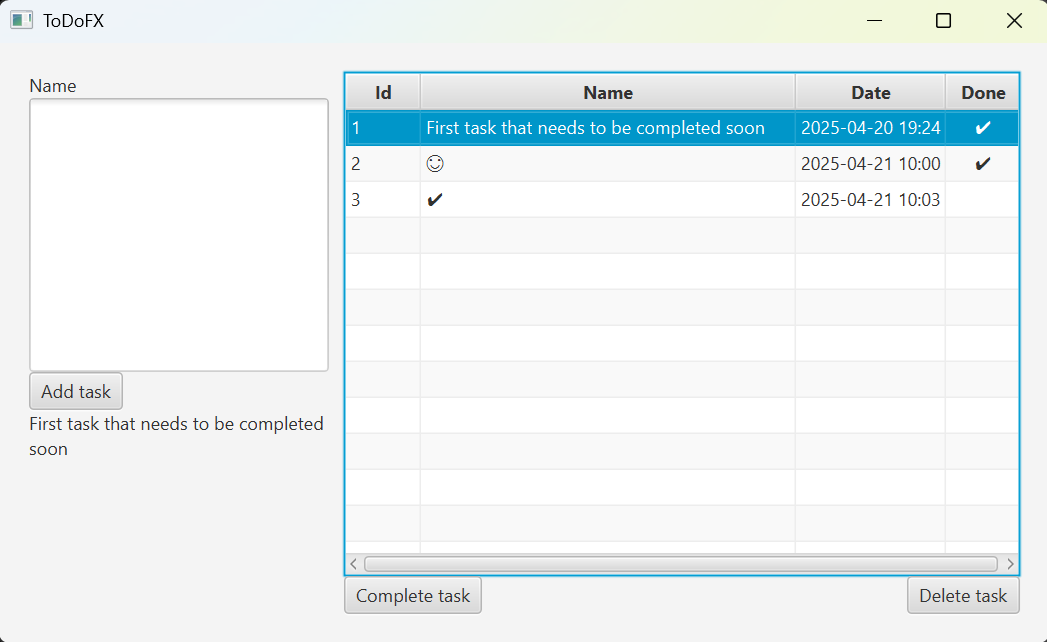
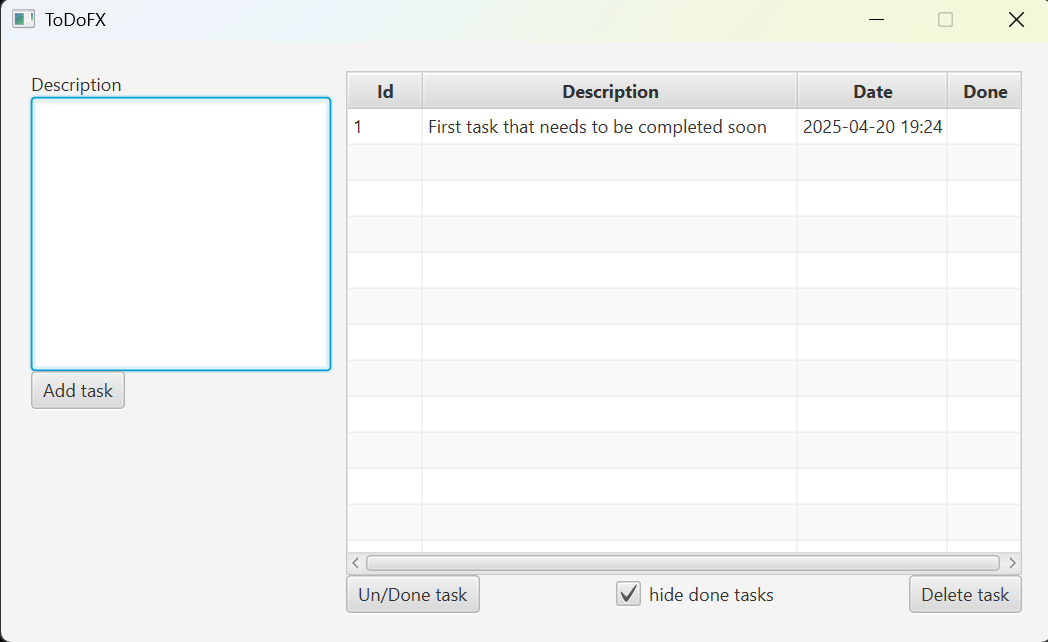
#7 completed task are now hidden per default; it's now also possible to toggle done/undone

diff --git a/src/main/kotlin/com/github/ursteiner/todofx/controller/ToDoFxController.kt b/src/main/kotlin/com/github/ursteiner/todofx/controller/ToDoFxController.kt
@@ -4,9 +4,11 @@ import com.github.ursteiner.todofx.model.Task
 import com.github.ursteiner.todofx.service.DatabaseService
 import com.github.ursteiner.todofx.service.DatabaseServiceImpl
 import com.github.ursteiner.todofx.view.FxMessageDialog
+import javafx.collections.FXCollections
 import javafx.collections.ObservableList
 import javafx.fxml.FXML
 import javafx.fxml.Initializable
+import javafx.scene.control.CheckBox
 import javafx.scene.control.Label
 import javafx.scene.control.TableView
 import javafx.scene.control.TextArea
@@ -26,64 +28,92 @@ class ToDoFxController : Initializable {
     @FXML
     private lateinit var tableView: TableView<Task>
 
+    @FXML
+    private lateinit var hideDoneTasksCheckBox: CheckBox
+
     private val dateTimeFormat = DateTimeFormatter.ofPattern("yyyy-MM-dd HH:mm")
     private val databaseService : DatabaseService = DatabaseServiceImpl("~/tasks")
     private val isDoneTextIcon = "✔"
+    private val tasks = mutableListOf<Task>()
 
-    @FXML
-    private fun onAddTaskButtonClick() {
-        val data: ObservableList<Task> = tableView.getItems()
-        if(taskNameInput.text.isNotEmpty()) {
-            val newTask : Task = Task(taskNameInput.text, LocalDateTime.now().format(dateTimeFormat), -1)
-            data.add(newTask)
-            databaseService.addTask(newTask)
-        }else {
-            showDialogMessage("Task", "Please first fill in a name of the task!")
+    override fun initialize(p0: URL?, p1: ResourceBundle?){
+        for(task in databaseService.getTasks()){
+            tasks.add(task)
+            if(task.getIsDoneProperty()){
+                task.setIsDoneIconProperty(isDoneTextIcon)
+            }
         }
 
+        onHideDoneTaskCheckBoxChanged()
+    }
+
+    @FXML
+    private fun onAddTaskButtonClick(){
+        if(taskNameInput.text.isEmpty()){
+            showDialogMessage("Task", "Please first fill in a name of the task!")
+            return
+        }
+
+        val newTask = Task(taskNameInput.text, LocalDateTime.now().format(dateTimeFormat), -1)
+        tasks.add(newTask)
+        databaseService.addTask(newTask)
+        onHideDoneTaskCheckBoxChanged()
         taskNameInput.text = ""
     }
 
     @FXML
-    private fun onDeleteTaskButtonClick() {
+    private fun onDeleteTaskButtonClick(){
         val selectedTask = tableView.selectionModel.selectedItem
-        if(selectedTask != null) {
-            databaseService.deleteTask(selectedTask.getIdProperty())
-            tableView.items.remove(selectedTask)
-            taskPreview.text = ""
-        }else {
+        if(selectedTask == null){
             showDialogMessageFirstSelectATask()
+            return
         }
+
+        databaseService.deleteTask(selectedTask.getIdProperty())
+        tasks.remove(selectedTask)
+        onHideDoneTaskCheckBoxChanged()
+        taskPreview.text = ""
     }
 
     @FXML
     private fun onCompletedTaskButtonClick(){
         val selectedTask = tableView.selectionModel.selectedItem
-        if(selectedTask != null && !selectedTask.getIsDoneProperty()) {
-            selectedTask.setIsDoneProperty(true)
-            selectedTask.setIsDoneIconProperty(isDoneTextIcon)
-            databaseService.updateTask(selectedTask)
-            tableView.refresh()
-        }else if(selectedTask == null) {
+        if(selectedTask == null) {
             showDialogMessageFirstSelectATask()
+            return
+        }
+
+        selectedTask.setIsDoneProperty(!selectedTask.getIsDoneProperty())
+        setTaskDoneIcon(selectedTask)
+        databaseService.updateTask(selectedTask)
+
+        onHideDoneTaskCheckBoxChanged()
+    }
+
+    private fun setTaskDoneIcon(task: Task){
+        if(task.getIsDoneProperty()){
+            task.setIsDoneIconProperty(isDoneTextIcon)
+        }else{
+            task.setIsDoneIconProperty("")
         }
     }
 
     @FXML
-    private fun onTaskSelected() {
+    private fun onTaskSelected(){
         val selectedTask = tableView.selectionModel.selectedItem
         if(selectedTask != null) {
             taskPreview.text = selectedTask.getNameProperty()
         }
     }
 
-    override fun initialize(p0: URL?, p1: ResourceBundle?) {
-        for(task in databaseService.getTasks()){
-            tableView.items.add(task)
-            if(task.getIsDoneProperty()){
-                task.setIsDoneIconProperty(isDoneTextIcon)
-            }
+    @FXML
+    private fun onHideDoneTaskCheckBoxChanged(){
+        if(hideDoneTasksCheckBox.isSelected){
+            tableView.items = FXCollections.observableList(tasks.filter { !it.getIsDoneProperty() })
+        }else{
+            tableView.items = FXCollections.observableList(tasks)
         }
+        tableView.refresh()
     }
 
     fun showDialogMessageFirstSelectATask(){

diff --git a/src/test/kotlin/com/github/ursteiner/todofx/DatabaseServiceImplTest.kt b/src/test/kotlin/com/github/ursteiner/todofx/DatabaseServiceImplTest.kt
@@ -22,7 +22,7 @@ class DatabaseServiceImplTest {
 
     @Test
     fun testAddTask() {
-        val testTask = Task("This is a Test Task", "2025-04-20 10:00", 0)
+        val testTask = Task("This is a Test Task", "2025-04-20 10:00")
         testCandidate.addTask(testTask)
 
         val databaseTasks = testCandidate.getTasks()
@@ -45,15 +45,18 @@ class DatabaseServiceImplTest {
 
     @Test
     fun testDeleteTask() {
-        val testTask = Task("This is a Test Task", "2025-04-20 10:00", 0)
-        testCandidate.addTask(testTask)
+        val testTask1 = Task("This is a Test Task", "2025-04-20 10:00")
+        testCandidate.addTask(testTask1)
 
-        val numberOfDeletedTasks = testCandidate.deleteTask(testTask.getIdProperty())
+        val testTask2 = Task("This is second Test Task", "2025-04-21 10:00")
+        testCandidate.addTask(testTask2)
+
+        val numberOfDeletedTasks = testCandidate.deleteTask(testTask1.getIdProperty())
         Assertions.assertEquals(1, numberOfDeletedTasks, "One task should have been deleted")
     }
 
     @Test
-    fun testGetTasks() {
+    fun testGetTasksNoneAvailable() {
         Assertions.assertEquals(0,
             testCandidate.getTasks().size,
             "There should be no tasks"
@@ -62,11 +65,14 @@ class DatabaseServiceImplTest {
 
     @Test
     fun testUpdateTask() {
-        val testTask = Task("Task1", "2025-04-20 10:00", 0)
+        val testTask = Task("Task1", "2025-04-20 10:00")
         testCandidate.addTask(testTask)
 
+        val testTask2 = Task("This is second Test Task", "2025-04-21 10:00")
+        testCandidate.addTask(testTask2)
+
         testTask.setIsDoneProperty(true)
-        val updatedTasks : Int = testCandidate.updateTask(testTask)
+        val updatedTasks : Int = testCandidate.updateTask(testTask2)
 
         Assertions.assertEquals(1, updatedTasks, "1 task should be updated")
     }

diff --git a/src/main/kotlin/com/github/ursteiner/todofx/model/Task.kt b/src/main/kotlin/com/github/ursteiner/todofx/model/Task.kt
@@ -11,7 +11,7 @@ class Task {
     val isDone: SimpleBooleanProperty = SimpleBooleanProperty(false)
     val isDoneIcon: SimpleStringProperty = SimpleStringProperty("")
 
-    constructor(name: String, date: String, id: Int, isDone: Boolean = false){
+    constructor(name: String, date: String, id: Int = 0, isDone: Boolean = false){
         setNameProperty(name)
         setDateProperty(date)
         setIdProperty(id)
